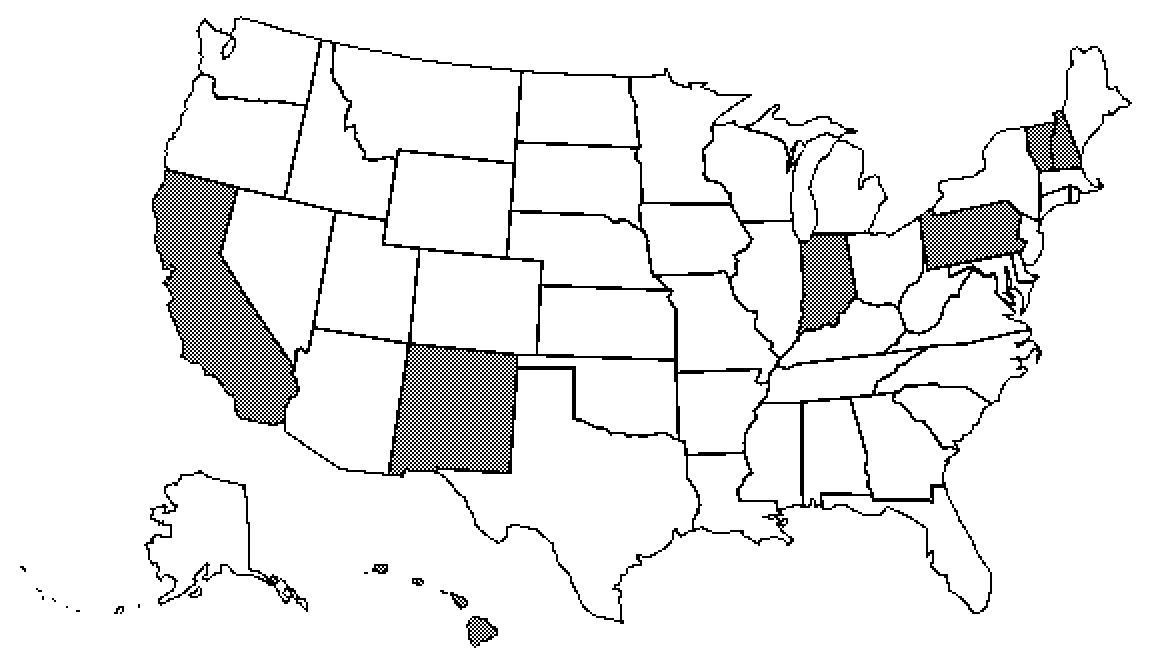
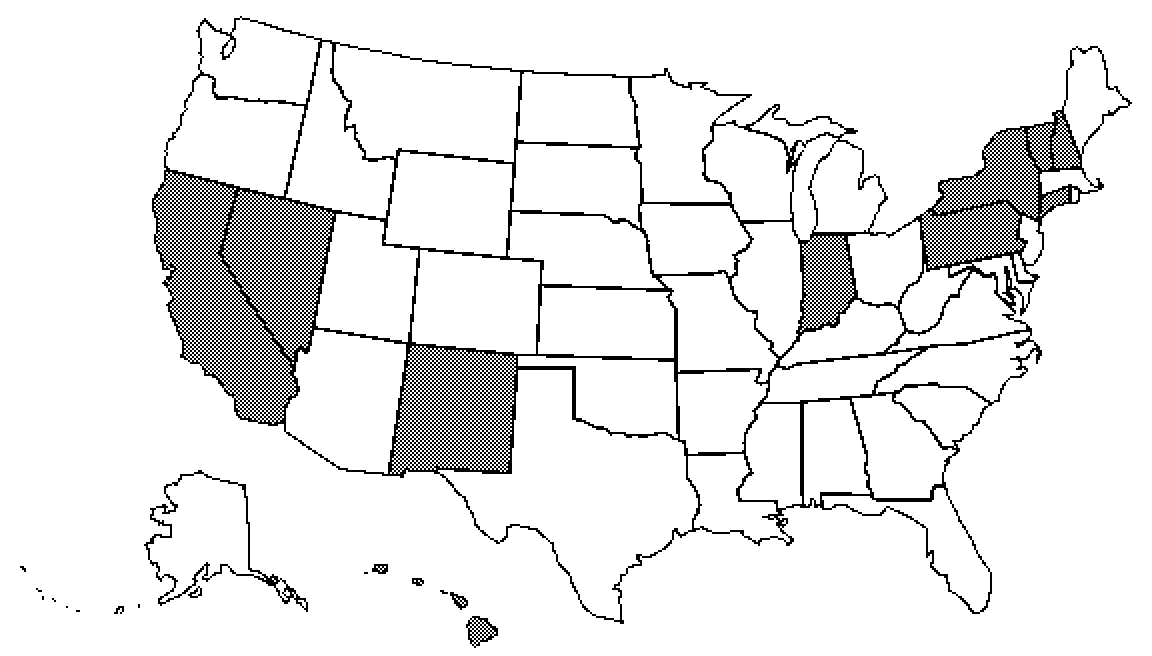
*

Changed region(s): [[0.1875, 0.3049, 0.2812, 0.5488], [0.8125, 0.1829, 0.9375, 0.3354]]

diff --git a/site/project-u.html b/site/project-u.html
@@ -1,0 +1,153 @@
+<!DOCTYPE html><html lang='en'><meta charset='utf-8'/><meta name='viewport' content='width=device-width, inital-scale=1'/><link href='../links/main.css' type='text/css' rel='stylesheet'/><link href='../media/icon.png' type='image/png' rel='shortcut icon'/><title>S. C. Lewis&mdash;project-u</title></head><body><header><a href='home.html'><img src='../media/main.png' width='160' height='80'></a>&nbsp;&nbsp;&nbsp;&nbsp;<img src='../media/e3.JPG' alt='2024 eclipse timelapse by Ashley Lian' width='900' height='82.5'></header><nav>
+<section class='site-nav'>
+<section>
+<h2 class='self'>projects&nbsp;</h2>
+<ul class='nobull capital'>
+<li><a href='astrea.html'>astrea</a></li>
+<li><a href='biscuit.html'>biscuit</a></li>
+<li><a href='myrr.html'>myrr</a></li>
+<li><mark><a href='project-u.html' class='self'>project-u</a></mark></li>
+<li><a href='pws.html'>pws</a></li>
+<li><a href='rhombus.html'>rhombus</a></li>
+<li><a href='sartoris.html'>sartoris</a></li>
+<li><a href='sonoshee.html'>sonoshee</a></li>
+<li><a href='vindauga.html'>vindauga</a></li>
+</ul>
+</section>
+<section>
+<h2>hobbies&nbsp;</h2>
+<ul class='nobull capital'>
+<li><a href='534C.html'>534C</a></li>
+<li><a href='birding.html'>birding</a></li>
+<li><a href='books.html'>books</a></li>
+<li><a href='electronics.html'>electronics</a></li>
+<li><a href='mandarin.html'>mandarin</a></li>
+<li><a href='movies.html'>movies</a></li>
+<li><a href='recipes.html'>recipes</a></li>
+<li><a href='running.html'>running</a></li>
+</ul>
+</section>
+<section>
+<h2>posts&nbsp;</h2>
+<ul class='nobull capital'>
+<li><a href='bent_data.html'>bent_data</a></li>
+<li><a href='esolangs.html'>esolangs</a></li>
+<li><a href='iceland.html'>iceland</a></li>
+<li><a href='lightning.html'>lightning</a></li>
+<li><a href='ml_basics.html'>ml_basics</a></li>
+<li><a href='people.html'>people</a></li>
+<li><a href='thesis.html'>thesis</a></li>
+<li><a href='vibing.html'>vibing</a></li>
+</ul>
+</section>
+<section>
+<h2>meta&nbsp;</h2>
+<ul class='nobull capital'>
+<li><a href='about.html'>about</a></li>
+<li><a href='meta-meta.html'>meta-meta</a></li>
+<li><a href='myself.html'>myself</a></li>
+<li><a href='resume.html'>resume</a></li>
+<li><a href='tools.html'>tools</a></li>
+</ul>
+</section>
+<section>
+<h2>timeline&nbsp;</h2>
+<ul class='nobull capital'>
+<li><a href='2022.html'>2022</a></li>
+<li><a href='2023.html'>2023</a></li>
+<li><a href='2024.html'>2024</a></li>
+<li><a href='2025.html'>2025</a></li>
+<li><a href='changes.html'>changes</a></li>
+<li><a href='current.html'>current</a></li>
+<li><a href='svanne.html'>svanne</a></li>
+</ul>
+</section>
+<section><ul class='nobull capital'></section>
+</details></nav>
+<!-- Generated file, do not edit -->
+<main>
+    <h2>Project-U</h2>
+    <p>In truth, this project is simply a reason for me to draw and write.</p>
+    <div align="center">
+        <figure>
+            <img src="../media/refs/map.png" style="width:100%;"/>
+        </figure>
+    </div>
+    <p>
+        For an age humanity has lived in the caverns, pits, and twisting fissures of the Underground. Dozens of generations knew the damp darkness as more than a home. The Dark is safety and a friend, one that envelopes you and your loved ones in an inky blanket of calm serenity. It is adventure and a watchful companion for those venturing into the unknown to uncover a never-explored nook or yawning abyss.
+    </p>
+    <p>
+        The omnipresent Dark spanned lifetimes. It was witness to the rise, flourishing, and fall of countless families, communities.
+    </p>
+
+    <p>
+        But slowly and surely, we forgot to see the Dark as an equal and instead as a threat, something to eradicate. The Dark was a dominating sickness of the Underground. The Dark no longer patiently waited to accompany travelers, it lurked and stalked unsuspecting victims. T then we conquered the Dark. We saw the Dark as something to be driven back. To be harnessed. 
+    </p>
+    <p>
+        And so we invented reasons to.
+    </p>
+    <p>
+        The Dark is a malevolence and a scheming adversary. There are dangers in the Dark, some natural and sedentary, others not so much. There are those who wield the Dark as a powerful and ever-present weapon—sometimes swift and sharp like an abyssal dagger and other times oozing and patient like pitch. Recently the Dark seems to hide help from those in need, and reveal riches to those already drowning in the wealth of the deep Underground. 
+    </p>
+    
+    <hr>
+    <h3>Places</h3>
+    <figure>
+      <img src="../media/refs/ayers.jpg"/>
+      <figcaption>Ayers' Node</figcaption>
+      <img src="../media/refs/ironwood.jpg"/>
+      <figcaption>Ironwood Rift</figcaption>
+    </figure>
+
+    <hr>
+    <h3>People</h3>
+    <p><b>Mauve Soren</b></p>
+    <div align="center"><figure><img src="../media/refs/200-mauve-spelfiend.png" ><figcaption>Mauve Soren and her Spelwing</figcaption></figure></div>
+
+    <b>Reese Drake</b>
+    <pre>
+    
+    Through flowing sand and bone-dry streams 
+    there lies a labyrinth all covered in green.
+    Mossy it was and a sight to behold,
+    stone walls tall as ten houses and obviously old.
+    What was truly strange is it never stood still
+    always appearing here and there wherever it will.
+    
+    Reese was an explorer, an exhibitionist, and exhumer.
+    And like Mr. Drake, her father, had an excellent humor
+    when it came to long treks through waterless wastes:
+    "I haven't eaten this much sand since I was eight!"
+    She of course knew of the labirynth and the gem at its core:
+    a ruby, deep red, flawless and big as a boar.
+    
+    And so she ventured between the green-grey walls
+    marking her path along every new hall.
+    Finally she reached a hazy room at its center.
+    But there she found no hulking red glimmer. 
+    Instead only a gem, tiny and nearly jet black.
+    Disappointed, she sighed and tossed it into her sack
+    and to her surprise Reese heard a faint note
+    raspy and oozy from inside her tote:
+    
+    *Ahem* "I sense courage is not something you lack..."
+    "But I think it'd be best if you put me back."
+    </pre>
+    <figure>
+        <img src="../media/refs/drawtober25-floatgate.png" style="width:45%"/> <figcaption>Reese Drake passing through a floatgate</figcaption>
+    </figure>
+
+    <h3>Things</h3>
+    <p>
+        <b>Darksbane</b> &mdash; luminous ore with mysterious source of energy. Even small pieces emit a pleasant glow. Too small, and the glow stops. Shattering a Darksbane crystal does not seem to reduce its total luminous output (as long as all resulting pieces are decently large). As a powder, there seems to be no difference between it and ground glass. Darksbane powder, does not seem to have a melting point and cannot be pressed back into a luminous crystal. It does not seem to react with water or any other substance except for Quicksilver. It is sometimes consumed as a homeopathic supplement. Darksbane is mostly found as spherical crystals ranging from the size of a pea to a skudball. A pea-sized Darksbane emits enough light to read by, if you hold it close to the page. A skudball size is enough to light a medium sized room. The largest ever found was Ayers' Node, nearly 400m across. When wrapped with copper wiring, the overall luminosity of a crystal drops, but luminous energy seems to be transferred through the wiring, boosting the luminosity of any Darksbane crystal at the other end. The flow of luminous energy seems to follow the simple rule of large to small.
+    </p>
+    <p>
+        <b>Tallum</b> &mdash; A near-miraculous insulator. Wire coatings. Can be woven into fabric that shields from even the most harsh temperature gradients for extended periods of time. 
+    </p>
+    <p>
+        <b>Pollux</b> &mdash; a miracle conductor. Near lossless power transfer.
+    </p>
+    <p>
+        <b>Pux</b> &mdash; atomized Pollux especially when kicked aloft. Follows magnetic field lines and when surrounding comms towers can expose data being transferred wirelessly. 
+    </p>
+</main><footer><hr /><b>Sean C. Lewis</b> © 2026 — <a href='https://creativecommons.org/licenses/by-nc-sa/4.0/' target='_blank'>BY-NC-SA 4.0</a> — Assembled using <a href='https://github.com/seanlabean/astrea'>Astrea</a> — Compatible with <a href='https://github.com/seanlabean/PythonProjects/tree/master/Biscuit'>BISCUIT</a></footer></body></html>

diff --git a/inc/project-u.htm b/inc/project-u.htm
@@ -1,0 +1,89 @@
+---
+category: projects
+---
+<main>
+    <h2>Project-U</h2>
+    <p>In truth, this project is simply a reason for me to draw and write.</p>
+    <div align="center">
+        <figure>
+            <img src="../media/refs/map.png" style="width:100%;"/>
+        </figure>
+    </div>
+    <p>
+        For an age humanity has lived in the caverns, pits, and twisting fissures of the Underground. Dozens of generations knew the damp darkness as more than a home. The Dark is safety and a friend, one that envelopes you and your loved ones in an inky blanket of calm serenity. It is adventure and a watchful companion for those venturing into the unknown to uncover a never-explored nook or yawning abyss.
+    </p>
+    <p>
+        The omnipresent Dark spanned lifetimes. It was witness to the rise, flourishing, and fall of countless families, communities.
+    </p>
+
+    <p>
+        But slowly and surely, we forgot to see the Dark as an equal and instead as a threat, something to eradicate. The Dark was a dominating sickness of the Underground. The Dark no longer patiently waited to accompany travelers, it lurked and stalked unsuspecting victims. T then we conquered the Dark. We saw the Dark as something to be driven back. To be harnessed. 
+    </p>
+    <p>
+        And so we invented reasons to.
+    </p>
+    <p>
+        The Dark is a malevolence and a scheming adversary. There are dangers in the Dark, some natural and sedentary, others not so much. There are those who wield the Dark as a powerful and ever-present weapon—sometimes swift and sharp like an abyssal dagger and other times oozing and patient like pitch. Recently the Dark seems to hide help from those in need, and reveal riches to those already drowning in the wealth of the deep Underground. 
+    </p>
+    
+    <hr>
+    <h3>Places</h3>
+    <figure>
+      <img src="../media/refs/ayers.jpg"/>
+      <figcaption>Ayers' Node</figcaption>
+      <img src="../media/refs/ironwood.jpg"/>
+      <figcaption>Ironwood Rift</figcaption>
+    </figure>
+
+    <hr>
+    <h3>People</h3>
+    <p><b>Mauve Soren</b></p>
+    <div align="center"><figure><img src="../media/refs/200-mauve-spelfiend.png" ><figcaption>Mauve Soren and her Spelwing</figcaption></figure></div>
+
+    <b>Reese Drake</b>
+    <pre>
+    
+    Through flowing sand and bone-dry streams 
+    there lies a labyrinth all covered in green.
+    Mossy it was and a sight to behold,
+    stone walls tall as ten houses and obviously old.
+    What was truly strange is it never stood still
+    always appearing here and there wherever it will.
+    
+    Reese was an explorer, an exhibitionist, and exhumer.
+    And like Mr. Drake, her father, had an excellent humor
+    when it came to long treks through waterless wastes:
+    "I haven't eaten this much sand since I was eight!"
+    She of course knew of the labirynth and the gem at its core:
+    a ruby, deep red, flawless and big as a boar.
+    
+    And so she ventured between the green-grey walls
+    marking her path along every new hall.
+    Finally she reached a hazy room at its center.
+    But there she found no hulking red glimmer. 
+    Instead only a gem, tiny and nearly jet black.
+    Disappointed, she sighed and tossed it into her sack
+    and to her surprise Reese heard a faint note
+    raspy and oozy from inside her tote:
+    
+    *Ahem* "I sense courage is not something you lack..."
+    "But I think it'd be best if you put me back."
+    </pre>
+    <figure>
+        <img src="../media/refs/drawtober25-floatgate.png" style="width:45%"/> <figcaption>Reese Drake passing through a floatgate</figcaption>
+    </figure>
+
+    <h3>Things</h3>
+    <p>
+        <b>Darksbane</b> &mdash; luminous ore with mysterious source of energy. Even small pieces emit a pleasant glow. Too small, and the glow stops. Shattering a Darksbane crystal does not seem to reduce its total luminous output (as long as all resulting pieces are decently large). As a powder, there seems to be no difference between it and ground glass. Darksbane powder, does not seem to have a melting point and cannot be pressed back into a luminous crystal. It does not seem to react with water or any other substance except for Quicksilver. It is sometimes consumed as a homeopathic supplement. Darksbane is mostly found as spherical crystals ranging from the size of a pea to a skudball. A pea-sized Darksbane emits enough light to read by, if you hold it close to the page. A skudball size is enough to light a medium sized room. The largest ever found was Ayers' Node, nearly 400m across. When wrapped with copper wiring, the overall luminosity of a crystal drops, but luminous energy seems to be transferred through the wiring, boosting the luminosity of any Darksbane crystal at the other end. The flow of luminous energy seems to follow the simple rule of large to small.
+    </p>
+    <p>
+        <b>Tallum</b> &mdash; A near-miraculous insulator. Wire coatings. Can be woven into fabric that shields from even the most harsh temperature gradients for extended periods of time. 
+    </p>
+    <p>
+        <b>Pollux</b> &mdash; a miracle conductor. Near lossless power transfer.
+    </p>
+    <p>
+        <b>Pux</b> &mdash; atomized Pollux especially when kicked aloft. Follows magnetic field lines and when surrounding comms towers can expose data being transferred wirelessly. 
+    </p>
+</main>

diff --git a/site/movies.html b/site/movies.html
@@ -6,6 +6,7 @@
 <li><a href='astrea.html'>astrea</a></li>
 <li><a href='biscuit.html'>biscuit</a></li>
 <li><a href='myrr.html'>myrr</a></li>
+<li><a href='project-u.html'>project-u</a></li>
 <li><a href='pws.html'>pws</a></li>
 <li><a href='rhombus.html'>rhombus</a></li>
 <li><a href='sartoris.html'>sartoris</a></li>
@@ -94,6 +95,8 @@ The Mandalorian and Grogu (2026)
 Hellboy (2004)
 
 In the Mood for Love (2000)
+
+Dr. Strangelove (1964)
 </pre>
 
 <h2>2025</h2>

diff --git a/inc/movies.htm b/inc/movies.htm
@@ -31,6 +31,8 @@ The Mandalorian and Grogu (2026)
 Hellboy (2004)
 
 In the Mood for Love (2000)
+
+Dr. Strangelove (1964)
 </pre>
 
 <h2>2025</h2>

diff --git a/site/toc.html b/site/toc.html
@@ -1,1 +1,1 @@
-<!DOCTYPE html><html lang='en'><meta charset='utf-8'/><meta name='viewport' content='width=device-width, inital-scale=1'/><link href='../links/main.css' type='text/css' rel='stylesheet'/><link href='../media/icon.png' type='image/png' rel='shortcut icon'/><title>S. C. Lewis&mdash;toc</title></head><body><header><a href='home.html'><img src='../media/main.png' width='160' height='80'></a>&nbsp;&nbsp;&nbsp;&nbsp;<img src='../media/e3.JPG' alt='2024 eclipse timelapse by Ashley Lian' width='900' height='82.5'></header><nav></nav><main><h2>The Garden at a Glance</h2><article><p><ul class='nobull'><li><a href='2022.html'>2022</a></li><li><a href='2023.html'>2023</a></li><li><a href='2024.html'>2024</a></li><li><a href='2025.html'>2025</a></li><li><a href='534C.html'>534C</a></li><li><a href='about.html'>about</a></li><li><a href='astrea.html'>astrea</a></li><li><a href='atavata.html'>atavata</a></li><li><a href='bent_data.html'>bent_data</a></li><li><a href='birding.html'>birding</a></li><li><a href='biscuit.html'>biscuit</a></li><li><a href='book_reviews.html'>book_reviews</a></li><li><a href='books.html'>books</a></li><li><a href='changes.html'>changes</a></li><li><a href='codecamp.html'>codecamp</a></li><li><a href='csknowledge.html'>csknowledge</a></li><li><a href='current.html'>current</a></li><li><a href='electronics.html'>electronics</a></li><li><a href='esolangs.html'>esolangs</a></li><li><a href='home.html'>home</a></li><li><a href='iceland.html'>iceland</a></li><li><a href='intl_trips.html'>intl_trips</a></li><li><a href='lightning.html'>lightning</a></li><li><a href='mandarin.html'>mandarin</a></li><li><a href='meta-meta.html'>meta-meta</a></li><li><a href='ml_basics.html'>ml_basics</a></li><li><a href='movies.html'>movies</a></li><li><a href='myrr.html'>myrr</a></li><li><a href='myself.html'>myself</a></li><li><a href='people.html'>people</a></li><li><a href='programs.html'>programs</a></li><li><a href='pws.html'>pws</a></li><li><a href='recipes.html'>recipes</a></li><li><a href='resume.html'>resume</a></li><li><a href='rhombus.html'>rhombus</a></li><li><a href='running.html'>running</a></li><li><a href='sartoris.html'>sartoris</a></li><li><a href='sonoshee.html'>sonoshee</a></li><li><a href='svanne.html'>svanne</a></li><li><a href='the_story.html'>the_story</a></li><li><a href='thesis.html'>thesis</a></li><li><a href='tools.html'>tools</a></li><li><a href='vibing.html'>vibing</a></li><li><a href='vindauga.html'>vindauga</a></li></ul></p></article></main><footer><hr /><b>Sean C. Lewis</b> © 2026 — <a href='https://creativecommons.org/licenses/by-nc-sa/4.0/' target='_blank'>BY-NC-SA 4.0</a> — Assembled using <a href='https://github.com/seanlabean/astrea'>Astrea</a> — Compatible with <a href='https://github.com/seanlabean/PythonProjects/tree/master/Biscuit'>BISCUIT</a></footer></body></html>
+<!DOCTYPE html><html lang='en'><meta charset='utf-8'/><meta name='viewport' content='width=device-width, inital-scale=1'/><link href='../links/main.css' type='text/css' rel='stylesheet'/><link href='../media/icon.png' type='image/png' rel='shortcut icon'/><title>S. C. Lewis&mdash;toc</title></head><body><header><a href='home.html'><img src='../media/main.png' width='160' height='80'></a>&nbsp;&nbsp;&nbsp;&nbsp;<img src='../media/e3.JPG' alt='2024 eclipse timelapse by Ashley Lian' width='900' height='82.5'></header><nav></nav><main><h2>The Garden at a Glance</h2><article><p><ul class='nobull'><li><a href='2022.html'>2022</a></li><li><a href='2023.html'>2023</a></li><li><a href='2024.html'>2024</a></li><li><a href='2025.html'>2025</a></li><li><a href='534C.html'>534C</a></li><li><a href='about.html'>about</a></li><li><a href='astrea.html'>astrea</a></li><li><a href='atavata.html'>atavata</a></li><li><a href='bent_data.html'>bent_data</a></li><li><a href='birding.html'>birding</a></li><li><a href='biscuit.html'>biscuit</a></li><li><a href='book_reviews.html'>book_reviews</a></li><li><a href='books.html'>books</a></li><li><a href='changes.html'>changes</a></li><li><a href='codecamp.html'>codecamp</a></li><li><a href='csknowledge.html'>csknowledge</a></li><li><a href='current.html'>current</a></li><li><a href='electronics.html'>electronics</a></li><li><a href='esolangs.html'>esolangs</a></li><li><a href='home.html'>home</a></li><li><a href='iceland.html'>iceland</a></li><li><a href='intl_trips.html'>intl_trips</a></li><li><a href='lightning.html'>lightning</a></li><li><a href='mandarin.html'>mandarin</a></li><li><a href='meta-meta.html'>meta-meta</a></li><li><a href='ml_basics.html'>ml_basics</a></li><li><a href='movies.html'>movies</a></li><li><a href='myrr.html'>myrr</a></li><li><a href='myself.html'>myself</a></li><li><a href='people.html'>people</a></li><li><a href='programs.html'>programs</a></li><li><a href='project-u.html'>project-u</a></li><li><a href='pws.html'>pws</a></li><li><a href='recipes.html'>recipes</a></li><li><a href='resume.html'>resume</a></li><li><a href='rhombus.html'>rhombus</a></li><li><a href='running.html'>running</a></li><li><a href='sartoris.html'>sartoris</a></li><li><a href='sonoshee.html'>sonoshee</a></li><li><a href='svanne.html'>svanne</a></li><li><a href='the_story.html'>the_story</a></li><li><a href='thesis.html'>thesis</a></li><li><a href='tools.html'>tools</a></li><li><a href='vibing.html'>vibing</a></li><li><a href='vindauga.html'>vindauga</a></li></ul></p></article></main><footer><hr /><b>Sean C. Lewis</b> © 2026 — <a href='https://creativecommons.org/licenses/by-nc-sa/4.0/' target='_blank'>BY-NC-SA 4.0</a> — Assembled using <a href='https://github.com/seanlabean/astrea'>Astrea</a> — Compatible with <a href='https://github.com/seanlabean/PythonProjects/tree/master/Biscuit'>BISCUIT</a></footer></body></html>

diff --git a/site/2022.html b/site/2022.html
@@ -6,6 +6,7 @@
 <li><a href='astrea.html'>astrea</a></li>
 <li><a href='biscuit.html'>biscuit</a></li>
 <li><a href='myrr.html'>myrr</a></li>
+<li><a href='project-u.html'>project-u</a></li>
 <li><a href='pws.html'>pws</a></li>
 <li><a href='rhombus.html'>rhombus</a></li>
 <li><a href='sartoris.html'>sartoris</a></li>

diff --git a/site/2023.html b/site/2023.html
@@ -6,6 +6,7 @@
 <li><a href='astrea.html'>astrea</a></li>
 <li><a href='biscuit.html'>biscuit</a></li>
 <li><a href='myrr.html'>myrr</a></li>
+<li><a href='project-u.html'>project-u</a></li>
 <li><a href='pws.html'>pws</a></li>
 <li><a href='rhombus.html'>rhombus</a></li>
 <li><a href='sartoris.html'>sartoris</a></li>

diff --git a/site/2024.html b/site/2024.html
@@ -6,6 +6,7 @@
 <li><a href='astrea.html'>astrea</a></li>
 <li><a href='biscuit.html'>biscuit</a></li>
 <li><a href='myrr.html'>myrr</a></li>
+<li><a href='project-u.html'>project-u</a></li>
 <li><a href='pws.html'>pws</a></li>
 <li><a href='rhombus.html'>rhombus</a></li>
 <li><a href='sartoris.html'>sartoris</a></li>

diff --git a/site/2025.html b/site/2025.html
@@ -6,6 +6,7 @@
 <li><a href='astrea.html'>astrea</a></li>
 <li><a href='biscuit.html'>biscuit</a></li>
 <li><a href='myrr.html'>myrr</a></li>
+<li><a href='project-u.html'>project-u</a></li>
 <li><a href='pws.html'>pws</a></li>
 <li><a href='rhombus.html'>rhombus</a></li>
 <li><a href='sartoris.html'>sartoris</a></li>

diff --git a/site/534C.html b/site/534C.html
@@ -6,6 +6,7 @@
 <li><a href='astrea.html'>astrea</a></li>
 <li><a href='biscuit.html'>biscuit</a></li>
 <li><a href='myrr.html'>myrr</a></li>
+<li><a href='project-u.html'>project-u</a></li>
 <li><a href='pws.html'>pws</a></li>
 <li><a href='rhombus.html'>rhombus</a></li>
 <li><a href='sartoris.html'>sartoris</a></li>

diff --git a/site/about.html b/site/about.html
@@ -6,6 +6,7 @@
 <li><a href='astrea.html'>astrea</a></li>
 <li><a href='biscuit.html'>biscuit</a></li>
 <li><a href='myrr.html'>myrr</a></li>
+<li><a href='project-u.html'>project-u</a></li>
 <li><a href='pws.html'>pws</a></li>
 <li><a href='rhombus.html'>rhombus</a></li>
 <li><a href='sartoris.html'>sartoris</a></li>

diff --git a/site/astrea.html b/site/astrea.html
@@ -6,6 +6,7 @@
 <li><mark><a href='astrea.html' class='self'>astrea</a></mark></li>
 <li><a href='biscuit.html'>biscuit</a></li>
 <li><a href='myrr.html'>myrr</a></li>
+<li><a href='project-u.html'>project-u</a></li>
 <li><a href='pws.html'>pws</a></li>
 <li><a href='rhombus.html'>rhombus</a></li>
 <li><a href='sartoris.html'>sartoris</a></li>